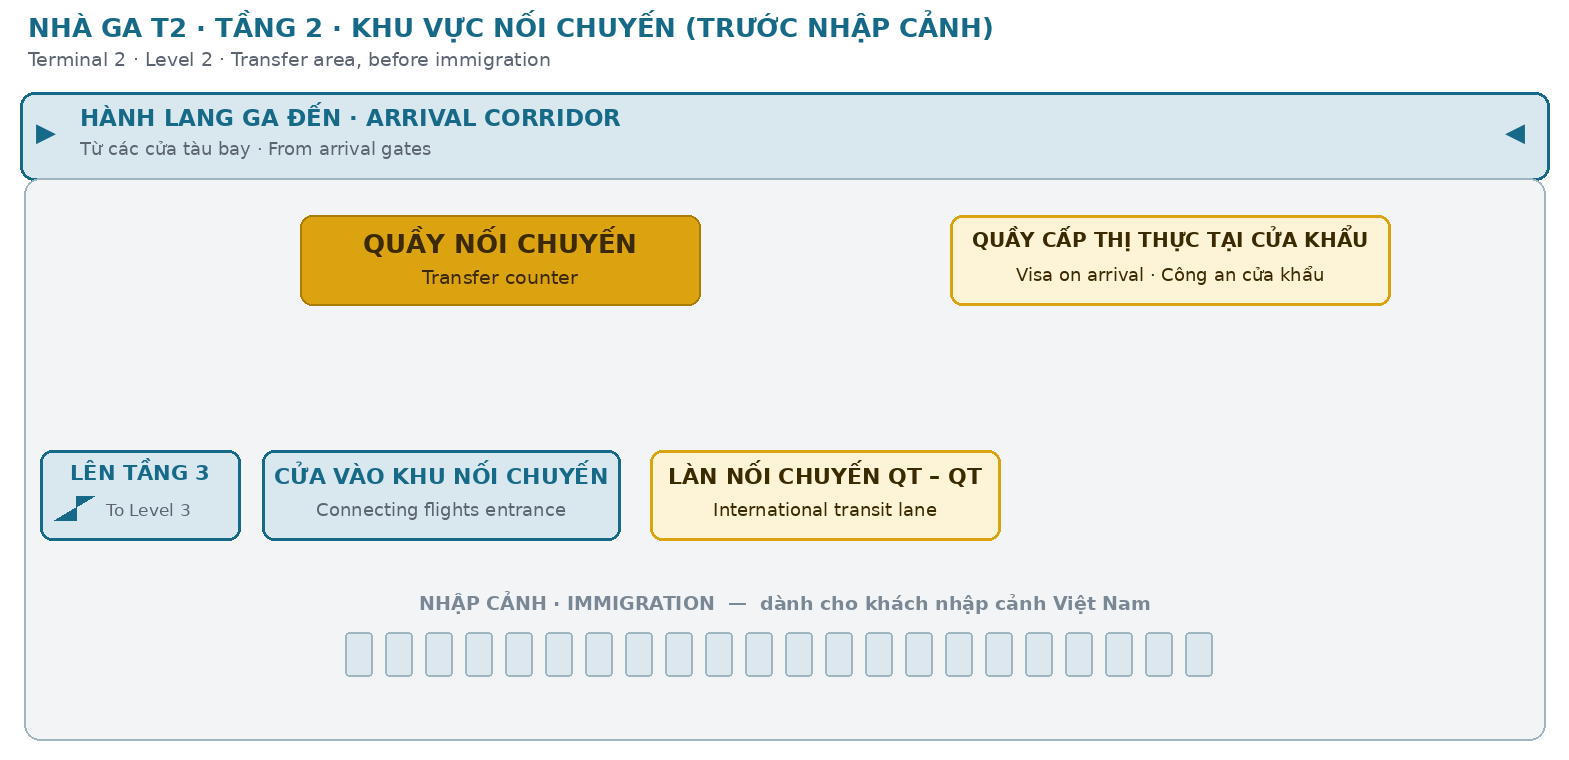
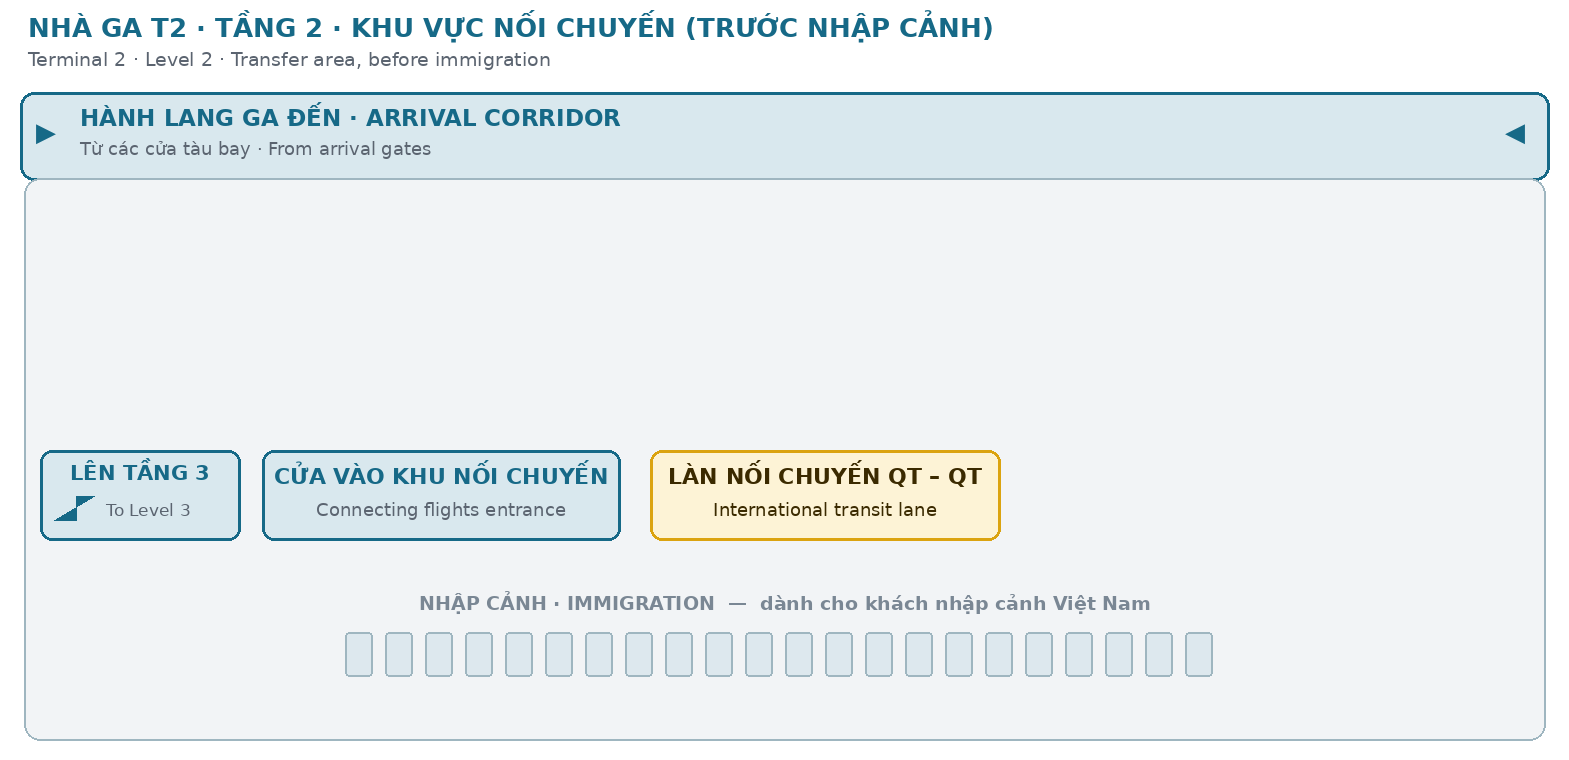
Cap nhat noi dung

Changed region(s): [[0.5934, 0.2724, 0.9057, 0.4237], [0.1874, 0.2724, 0.4685, 0.4237]]

diff --git a/sw.js b/sw.js
@@ -1,1 +1,1 @@
-if(!self.define){let e,n={};const i=(i,s)=>(i=new URL(i+".js",s).href,n[i]||new Promise(n=>{if("document"in self){const e=document.createElement("script");e.src=i,e.onload=n,document.head.appendChild(e)}else e=i,importScripts(i),n()}).then(()=>{let e=n[i];if(!e)throw new Error(`Module ${i} didn’t register its module`);return e}));self.define=(s,o)=>{const c=e||("document"in self?document.currentScript.src:"")||location.href;if(n[c])return;let r={};const d=e=>i(e,c),a={module:{uri:c},exports:r,require:d};n[c]=Promise.all(s.map(e=>a[e]||d(e))).then(e=>(o(...e),r))}}define(["./workbox-9e0cfdd6"],function(e){"use strict";self.skipWaiting(),e.clientsClaim(),e.precacheAndRoute([{url:"manifest.json",revision:"04715520d4bdbe12ac1fe0ef9a5e6c8a"},{url:"index.html",revision:"85ed9cd6695898c76d8d962dc4248bb4"},{url:"map/t2-noi-chuyen-qt-qt.png",revision:"92bbce650d9a0d26604afa39db96b397"},{url:"map/t2-l2-noi-chuyen.png",revision:"b63dd5f122574ff77dc53d5839090ae9"},{url:"map/t2-khu-noi-chuyen.png",revision:"6a3794443adcef3c4e07cadd66193851"},{url:"map/t2-ga-den.png",revision:"1935ee08b253474e0dddd6dd300eaf47"},{url:"map/t2-departure.png",revision:"04ee0c56f20522ca06938a71f9fbb709"},{url:"map/t1-t2-qt-nd.png",revision:"9d6993093605993307db60b0380e1f02"},{url:"map/t1-t2-noi-chuyen.png",revision:"5cd610c697ff6740eb52aa59cd9571df"},{url:"map/t1-l1-arrivals.svg",revision:"2c6323c0f7ffc9eed3c9691eb909c188"},{url:"map/t1-l1-arrivals.png",revision:"2617bb8c54cba57c5ad8324d6c02e5b5"},{url:"map/t1-gates.svg",revision:"5fdb8aeb589fabb81d8b116342093046"},{url:"map/t1-gates.png",revision:"a7a1185776e47a518f7eec9f7774c56e"},{url:"icons/icon-512.png",revision:"e10052c2ca4830e706ba55ba90002ce6"},{url:"icons/icon-192.png",revision:"5470cd9958be5f58c83565b5ba1a3027"},{url:"content/touchpoints.json",revision:"7ed2e2fb7b115c214370f15b963a9772"},{url:"content/survey.json",revision:"478d69f0614df2ddf47998c8155464e4"},{url:"content/settings.json",revision:"8d52e4f3429d3c6e4df21c047a039dff"},{url:"content/rules.json",revision:"9d41a4685fd972bdd71626ddf46b327b"},{url:"content/routes.json",revision:"7df057f7d9829620ad55f463e1516747"},{url:"content/notices.json",revision:"d751713988987e9331980363e24189ce"},{url:"content/map_points.json",revision:"6fefae27144f6f24911a5ff0a76bd8be"},{url:"content/maps.json",revision:"0b8fdd7b62dde7ab05abd391c1a15c24"},{url:"content/labels.json",revision:"aa9d62368eb72c8d5f4bea72311556d9"},{url:"content/intents.json",revision:"483ca8ce80d7ad7b05c319629a8789ad"},{url:"content/guides.json",revision:"f7109624e7c8b32d44030cbcf9274dd5"},{url:"content/flights.json",revision:"fb44f9a24d7f342bf0dc4a1f87934217"},{url:"brand/lotus-gold.svg",revision:"2eb29c4798f87337f664cc01ffdbec78"},{url:"brand/logo-vna.svg",revision:"92652542bd640ed570b738850ecba742"},{url:"assets/workbox-window.prod.es5-BBnX5xw4.js",revision:null},{url:"assets/index-BOn0bLyI.css",revision:null},{url:"assets/index-BICxEMsz.js",revision:null},{url:"brand/logo-vna.svg",revision:"92652542bd640ed570b738850ecba742"},{url:"brand/lotus-gold.svg",revision:"2eb29c4798f87337f664cc01ffdbec78"},{url:"icons/icon-192.png",revision:"5470cd9958be5f58c83565b5ba1a3027"},{url:"icons/icon-512.png",revision:"e10052c2ca4830e706ba55ba90002ce6"}],{}),e.cleanupOutdatedCaches(),e.registerRoute(new e.NavigationRoute(e.createHandlerBoundToURL("index.html"))),e.registerRoute(({url:e})=>e.pathname.startsWith("/api/flights"),new e.NetworkFirst({cacheName:"flights",plugins:[new e.ExpirationPlugin({maxAgeSeconds:60})]}),"GET"),e.registerRoute(({url:e})=>e.pathname.startsWith("/content/")||e.pathname.startsWith("/images/"),new e.StaleWhileRevalidate({cacheName:"content",plugins:[new e.ExpirationPlugin({maxAgeSeconds:86400})]}),"GET")});
+if(!self.define){let e,n={};const i=(i,s)=>(i=new URL(i+".js",s).href,n[i]||new Promise(n=>{if("document"in self){const e=document.createElement("script");e.src=i,e.onload=n,document.head.appendChild(e)}else e=i,importScripts(i),n()}).then(()=>{let e=n[i];if(!e)throw new Error(`Module ${i} didn’t register its module`);return e}));self.define=(s,o)=>{const c=e||("document"in self?document.currentScript.src:"")||location.href;if(n[c])return;let r={};const d=e=>i(e,c),a={module:{uri:c},exports:r,require:d};n[c]=Promise.all(s.map(e=>a[e]||d(e))).then(e=>(o(...e),r))}}define(["./workbox-9e0cfdd6"],function(e){"use strict";self.skipWaiting(),e.clientsClaim(),e.precacheAndRoute([{url:"manifest.json",revision:"04715520d4bdbe12ac1fe0ef9a5e6c8a"},{url:"index.html",revision:"85ed9cd6695898c76d8d962dc4248bb4"},{url:"map/t2-noi-chuyen-qt-qt.png",revision:"92bbce650d9a0d26604afa39db96b397"},{url:"map/t2-l2-noi-chuyen.png",revision:"b63dd5f122574ff77dc53d5839090ae9"},{url:"map/t2-khu-noi-chuyen.truoc-bo-quay.png",revision:"6a3794443adcef3c4e07cadd66193851"},{url:"map/t2-khu-noi-chuyen.png",revision:"d506c9ff9ec5b7a7556d3b7ca7a62443"},{url:"map/t2-ga-den.png",revision:"1935ee08b253474e0dddd6dd300eaf47"},{url:"map/t2-departure.png",revision:"04ee0c56f20522ca06938a71f9fbb709"},{url:"map/t1-t2-qt-nd.png",revision:"9d6993093605993307db60b0380e1f02"},{url:"map/t1-t2-noi-chuyen.png",revision:"5cd610c697ff6740eb52aa59cd9571df"},{url:"map/t1-l1-arrivals.svg",revision:"2c6323c0f7ffc9eed3c9691eb909c188"},{url:"map/t1-l1-arrivals.png",revision:"2617bb8c54cba57c5ad8324d6c02e5b5"},{url:"map/t1-gates.svg",revision:"5fdb8aeb589fabb81d8b116342093046"},{url:"map/t1-gates.png",revision:"a7a1185776e47a518f7eec9f7774c56e"},{url:"icons/icon-512.png",revision:"e10052c2ca4830e706ba55ba90002ce6"},{url:"icons/icon-192.png",revision:"5470cd9958be5f58c83565b5ba1a3027"},{url:"content/touchpoints.json",revision:"7ed2e2fb7b115c214370f15b963a9772"},{url:"content/survey.json",revision:"478d69f0614df2ddf47998c8155464e4"},{url:"content/settings.json",revision:"8d52e4f3429d3c6e4df21c047a039dff"},{url:"content/rules.json",revision:"9d41a4685fd972bdd71626ddf46b327b"},{url:"content/routes.json",revision:"7df057f7d9829620ad55f463e1516747"},{url:"content/notices.json",revision:"d751713988987e9331980363e24189ce"},{url:"content/map_points.json",revision:"8ed5a8046a2331cb518c8f64b47c27db"},{url:"content/maps.json",revision:"0b8fdd7b62dde7ab05abd391c1a15c24"},{url:"content/labels.json",revision:"aa9d62368eb72c8d5f4bea72311556d9"},{url:"content/intents.json",revision:"483ca8ce80d7ad7b05c319629a8789ad"},{url:"content/guides.json",revision:"f7109624e7c8b32d44030cbcf9274dd5"},{url:"content/flights.json",revision:"fe4cff0155e12f3cd338f6a9521ac379"},{url:"brand/lotus-gold.svg",revision:"2eb29c4798f87337f664cc01ffdbec78"},{url:"brand/logo-vna.svg",revision:"92652542bd640ed570b738850ecba742"},{url:"assets/workbox-window.prod.es5-BBnX5xw4.js",revision:null},{url:"assets/index-BOn0bLyI.css",revision:null},{url:"assets/index-BICxEMsz.js",revision:null},{url:"brand/logo-vna.svg",revision:"92652542bd640ed570b738850ecba742"},{url:"brand/lotus-gold.svg",revision:"2eb29c4798f87337f664cc01ffdbec78"},{url:"icons/icon-192.png",revision:"5470cd9958be5f58c83565b5ba1a3027"},{url:"icons/icon-512.png",revision:"e10052c2ca4830e706ba55ba90002ce6"}],{}),e.cleanupOutdatedCaches(),e.registerRoute(new e.NavigationRoute(e.createHandlerBoundToURL("index.html"))),e.registerRoute(({url:e})=>e.pathname.startsWith("/api/flights"),new e.NetworkFirst({cacheName:"flights",plugins:[new e.ExpirationPlugin({maxAgeSeconds:60})]}),"GET"),e.registerRoute(({url:e})=>e.pathname.startsWith("/content/")||e.pathname.startsWith("/images/"),new e.StaleWhileRevalidate({cacheName:"content",plugins:[new e.ExpirationPlugin({maxAgeSeconds:86400})]}),"GET")});
